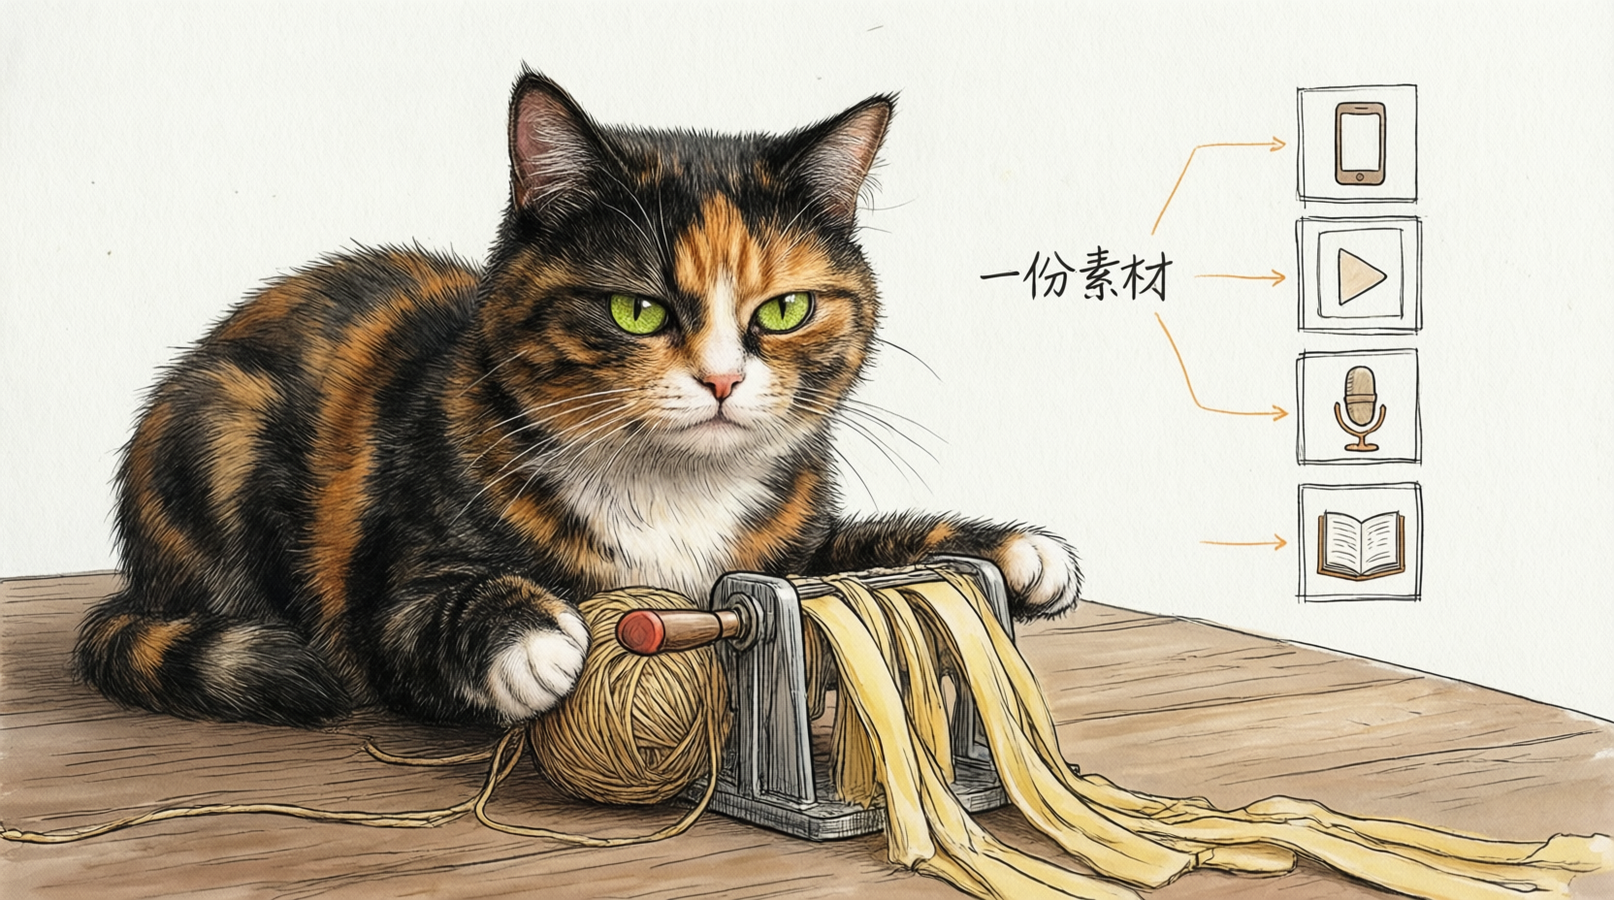
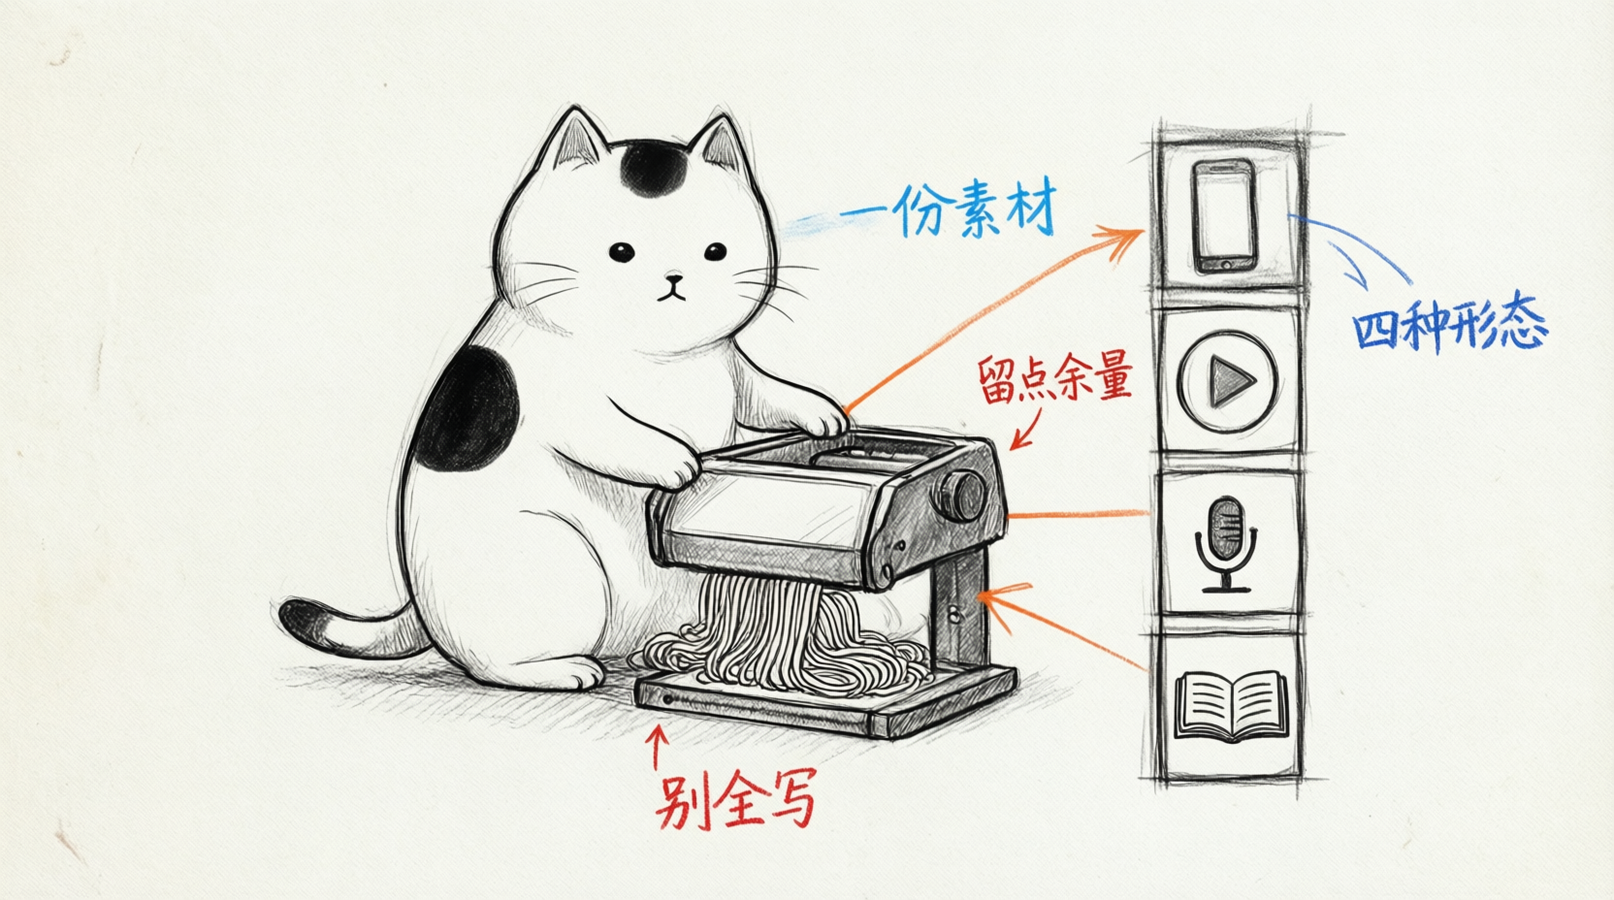
style: 画风收敛为极简黑白线稿+红蓝橙笔标记，猫改为空心简笔画角色，prompt 模板改中文并修复 qwen-image 跑偏问题

diff --git a/article-cat-illustrations/references/prompt-template.md b/article-cat-illustrations/references/prompt-template.md
@@ -1,89 +1,75 @@
 # 生图提示词模板
 
-每张图单独生成，通过 qiyuan-image 技能调用 qwen-image API。根据正文内容替换变量，不要把多张图拼在一起。
+每张图单独生成，通过 qiyuan-image 技能调用 qwen-image API。根据正文内容替换变量。
+
+**重要：qwen-image 对中文提示词还原度远高于英文长提示词。下面的模板以中文为主。**
 
 ## 文生图（默认路径）
 
 ```bash
 node ~/.codex/skills/qiyuan-image/qiyuan-image.mjs generate \
-  --prompt "见下方模板" \
+  --prompt "<下方模板>" \
   --out assets/<article-slug>-illustrations/0N-topic-name.png \
   --size 1664x928
 ```
 
-```text
-Generate one standalone 16:9 horizontal Chinese article illustration.
-
-Visual DNA:
-Pure white background. Minimalist hand-drawn line art. Slightly wobbly pen lines. Lots of empty white space. Sparse red/orange/blue handwritten Chinese annotations. Clean absurd product-sketch feeling. No gradients, no shadows, no paper texture, no complex background, no commercial vector style, no PPT infographic look, no cute mascot poster, no children's illustration, no realistic UI.
-
-Recurring IP character required:
-A tortoiseshell (three-color) cat: black, ginger/tan and white fur patches; a white blaze running down the nose and a white muzzle; lime-green round eyes; pointed dark ears; short white paws. Deadpan, aloof, slightly grumpy expression, like a serious system operator who happens to be a cat. The cat must perform the core conceptual action, not decorate the scene. Keep the cat serious and deadpan, NOT cute, NOT chibi, NOT sparkly.
-
-Theme:
-{正文配图主题}
-
-Structure type:
-{结构类型：Workflow / 系统局部 / 前后对比 / 角色状态 / 概念隐喻 / 方法分层 / 地图路线 / 小漫画分镜}
-
-Core idea:
-{这张图要表达的核心意思}
-
-Composition:
-{具体画面：猫在哪里、正在做什么、主要物件是什么、信息如何流动}
-
-Suggested elements:
-{元素1} / {元素2} / {元素3} / {元素4}
-
-Chinese handwritten labels:
-{标注词1} / {标注词2} / {标注词3} / {标注词4} / {可选标注词5}
-
-Color use:
-Black, ginger and white for the cat. Black for main line art and structure. Orange for main flow/path/arrows. Red only for key warnings/problems/results. Blue only for secondary notes or feedback/system state.
-
-Constraints:
-One image explains only one core structure. Keep the main subject around 40%-60% of the canvas. Preserve at least 35% blank white space. Use at most 5-8 short handwritten Chinese labels. Do not write a title in the top-left corner. Do not write the structure type on the image. Do not make it a formal diagram, course slide, or dense explainer. Do not copy prior examples or reuse known case compositions unless explicitly requested; invent a fresh visual metaphor for this specific article. It should be clear but not instructional, interesting but not childish, strange but clean.
-```
-
-注意：当前 qiyuan-image CLI 的 generate 子命令传 `--negative` 会报错（form.append bug），请勿在 generate 中传该参数；negative 内容已并入提示词。
+### 提示词模板（整段复制，替换花括号变量）
 
 ```text
-cute, chibi, kawaii, mascot, sparkle eyes, cartoon baby face, bow, collar, ribbon, PPT, infographic, 3D render, photo, gradient, shadow, paper texture
+极简手绘风中文文章配图，16:9 横版。风格要求（严格遵守）：
+
+1. 纯白背景，整张画面全白，无阴影、无渐变、无纸张纹理、无照片感。
+2. 只有黑色细线稿（圆珠笔手绘感，线条轻微抖动，约2px粗细），角色和物体的内部留白不填充，不用任何写实细节。
+3. 除黑色外，只有三种颜色：红色、蓝色、橙色手写笔标记。橙色只画箭头和路径，红色和蓝色只写批注文字。
+4. 中文手写批注最多5处，每处2-6个字，每个词单独写、字与字分开、清晰可读，绝不连笔、绝不重叠、绝不糊在一起。
+5. 画面主体只占一半左右，大量留白。不要标题，不要左上角写结构类型名，不要任何说明性大段文字。
+
+固定角色（每张图必须有，承担核心动作，不是装饰）：
+一只简笔画猫：黑色细线勾出的椭圆身体，身体内部留白不填色，头顶两个小三角耳朵，两个小黑点眼睛，无嘴，表情冷淡呆滞。背上一小块黑色填充色块表示三花猫。细线火柴棍腿和尾巴。它要像简笔画小人一样认真地干活，绝对不要画成写实猫咪、不要毛发纹理、不要绿色眼睛、不要萌感。
+
+画面内容：
+{具体画面：猫在哪里、正在做什么、主要物件（用简笔画纸箱/抽屉/漏斗/机器/门等低科技物件）、信息如何流动}
+
+文字标注（只写这些，不要多写，每个词位置独立）：
+{标注词1，红色或黑色} / {标注词2，蓝色} / {标注词3，橙色箭头} / {标注词4，红色}
+
+参考构图气质（只参考线条密度和简略度，不要照抄物件）：
+像白纸上用圆珠笔随手画的怪诞产品草图，角色是简笔画小生物，物件是纸箱抽屉漏斗机器，箭头是橙色手绘，批注是红蓝手写小字。
 ```
 
-## 角色一致性 / 局部编辑（edit 命令）
+### 变量填充原则
 
-猫的毛色或表情偏离参考猫，或需要局部修改时，用真实猫照做参考图：
+- `{具体画面}` 一句话说清"谁在哪做什么"，不超过 3 个物件。物件从池子里选：纸箱、抽屉、漏斗、旧机器、门、井、梯子、邮筒、秤、传送带、黑盒、怪工位。
+- 标注词控制在 4-5 个以内；颜色在词后面注明，避免模型全用黑色。
+- 结构类型（Workflow/前后对比等）**不要写进提示词**，只体现在画面里。
+
+## 图像编辑（局部修改 / 角色一致性）
 
 ```bash
 node ~/.codex/skills/qiyuan-image/qiyuan-image.mjs edit \
-  --image <skill-dir>/assets/cat/cat-01.png \
-  --prompt "保持参考图中这只三花猫（黑橘白三色毛、浅绿圆眼、冷淡脸）的外貌特征完全一致，把它放进目标构图：<目标构图描述>。纯白背景，黑色手绘线稿风格，大量留白，少量红橙蓝中文手写批注，16:9 横版。" \
-  --out assets/<article-slug>-illustrations/0N-topic-name.png \
+  --image <图> \
+  --prompt "<编辑指令>" \
+  --out <目标文件>.png \
   --strength 0.6
 ```
 
-去掉左上角标题：
+去掉左上角标题 / 多余文字：
 
 ```text
-Edit the provided image. Remove only the handwritten title "{要删除的文字}" and its underline from the top-left corner. Fill that area with the same clean white background, matching the surrounding blank paper. Preserve everything else exactly: the cat, labels, paths, line style, composition, aspect ratio, and image quality. Do not add any new text or objects.
+编辑这张图：只删除"{要删除的文字}"，用纯白背景填平该区域，与周围白纸一致。其余内容（角色、线条、标注、构图、比例）完全保持不变，不要新增任何文字或物件。
 ```
 
-增强角色参与感：
+风格跑偏成写实时：
 
 ```text
-Regenerate this illustration with the same core meaning and simple layout, but make the tortoiseshell cat more central to the conceptual action. The cat should be doing the strange work that explains the idea, not standing beside the diagram. Keep it clean, sparse, hand-drawn, and not cute.
+把这张图重新画成极简黑白线稿风格：所有物体和角色变成黑色细圆珠笔手绘线，内部留白不填充，去掉所有阴影、渐变、材质纹理和写实细节，背景变纯白，只保留红色、蓝色、橙色手写批注。保持构图和文字位置不变。
 ```
-
-## strength 调参经验
-
-- 0.4-0.5：构图基本跟随提示词，猫只取参考图的部分特征。
-- 0.6：默认起点，猫特征与构图平衡。
-- 0.7-0.85：猫非常接近参考图，但构图会被参考图带偏。
 
 ## 实测调参经验（qwen-image）
 
-- 提示词过长/结构太复杂（Theme/Structure type/Core idea 分节 + 大量英文约束）时，模型容易画成写实素描或照片，且会幻觉出大段中文。**收敛成一段自然语言描述 + 明确 "hand-drawn ink sketch on pure white paper, not a photo, no camera frame, no dark edges"**，扁平手绘感会稳定很多。
-- 中文标注必须写"exactly ONE annotation, do not repeat"，否则模型会把同一句话在每个元素旁重复多遍。
-- 纯白背景要在提示词里强调 "entire canvas edge to edge pure white, no vignette, no room, no photo"，否则画面右侧/边缘常出现暗色"照片边"。
-- 猫的长相（三花毛色、绿眼、冷淡脸）模型还原度很高，文生图即可；edit 参考图主要用来修局部，不必作为默认路径。
+1. **中文提示词 > 英文长提示词**：英文分节模板（Theme/Structure/Composition/Constraints 一大段）会让模型跑向写实素描；中文一段式约束 + 明确的"简笔画/留白不填色"描述，能稳定还原极简风。
+2. **猫的简略度要反复强调**：模型默认把"猫"画成写实猫。必须写"椭圆身体、内部留白、小黑点眼睛、火柴棍腿、不要毛发纹理、不要绿眼睛"。参考原版小黑：它的身体就是一个空心线稿豆子，猫也一样。
+3. **文字糊在一起**：qwen-image 写中文容易连笔糊团。要写"每个词单独写、字与字分开、清晰可读"，且标注词总数 ≤5。错字多就减少标注重生成，或 edit 局部修。
+4. **纯白背景**：强调"整张画面全白，无阴影无渐变无照片感"，否则边缘易出现暗色/纸纹。
+5. **不要用 `--negative`**：当前 qiyuan-image CLI 的 generate 子命令传该参数会报 `form.append is not a function`（源码 bug）。负面约束直接写进提示词。
+6. **edit 修风格比重生成稳**：构图对了但画风写实时，用 edit + "重新画成极简黑白线稿" 比整图重生成保留构图更好。

diff --git a/article-cat-illustrations/references/cat-ip.md b/article-cat-illustrations/references/cat-ip.md
@@ -1,38 +1,47 @@
-# 三花猫 IP
+# 三花猫 IP（极简手绘版）
 
 ## 角色定义
 
-三花猫是这套正文配图的固定视觉 IP。
+三花猫是这套正文配图的固定视觉 IP，画风与原版"小黑"完全一致：极简黑白线稿 + 红蓝橙笔标注。
 
-默认每张图都要出现这只猫。它不是萌宠、不是贴纸、不是可爱装饰，而是一只正在认真参与系统运转的"工牌猫"：严肃、冷静、面无表情，但干的活有点荒诞。
+猫不是萌宠、不是贴纸、不是写实动物，而是一个**简笔画角色**——和原版小黑一样是"正在认真干活的荒诞工作者"，只是外形从黑色豆变成了简笔猫。
 
-## 外形（必须与参考图保持一致）
+## 外形（必须与原版小黑同等简略度）
 
-参考图见 `assets/cat/`（01 红衣蓝羽绒服坐姿、02 正面特写、03 趴在垫子上侧脸）。
+- **身体**：圆润的椭圆/卵形轮廓，细黑线描边，**内部留白不填充**（和原版小黑不同，猫身体是空心的线稿）。
+- **耳朵**：头顶两个小尖三角，细线描边。
+- **眼睛**：两个小黑点（●●），**不要画绿色**——和原版小黑的白点眼一样极简。
+- **嘴鼻**：鼻梁处一小块白色留白（用轮廓线勾出的三角形区域），表示三花猫的白色嘴周。
+- **三花色块**：身体上用 1-2 条简单弧线分出一个黑色填充小块（在头或背上），表示三花猫的色块。其余留白。**不要画写实毛色、不要渐变、不要纹理。**
+- **四肢**：细线火柴棍腿（和原版小黑一样），偶尔有细胳膊。
+- **尾巴**：一条简单弧线，偶尔带一个弯曲。
+- **表情**：空、呆、冷静、认真（无嘴或一条短横线嘴）。
 
-- 三花猫（tortoiseshell）：毛色由黑色、橘棕色、白色三色斑块组成。
-- 脸部：左右脸一半偏黑、一半偏橘棕，鼻梁正下方到嘴部有一条白色，嘴周白毛。
-- 眼睛：浅绿色/青柠色，圆眼，眼神冷淡、审视、略凶。
-- 耳朵：黑色尖耳，内侧深色。
-- 爪子和部分身体：有白色斑块（白手套感）。
-- 手绘时简化为：黑+橘棕+白三色块，浅绿圆眼，尖耳，白色嘴周。
+## 画法约束（最重要）
+
+**猫和原版小黑是同一个视觉层级：简笔画角色，不是动物插画。**
+
+- 线宽：全图统一的细黑线（~2px 视觉感受），轻微抖动，手绘感。
+- 填充：猫身体内部**留白**（不填色），最多一个黑色小色块表示三花。
+- 禁止：写实毛发、阴影、渐变、体积感、绿色眼睛、毛色渐变、写实比例。
+- 比例：猫占画面的比例与原版小黑一致（小角色，不霸屏）。
 
 ## 气质
 
 - 冷淡脸（deadpan），永远一副"别惹我"的表情。
-- 很认真，但做的事有点荒诞，像一个低调的系统管理员恰好是只猫。
-- 冷幽默，不卖萌，不摇尾巴，不喵叫。
-- 有点傲慢，但不蠢；看起来在监督系统，实际是核心劳动力。
+- 很认真，但做的事有点荒诞。
+- 冷幽默，不卖萌，不摇尾巴。
+- 像一个低调的系统管理员恰好画成了只猫。
 
 ## 常见职责
 
-让猫承担核心动作：
+和原版小黑相同——猫承担核心动作：
 
 - 爪子里搬着素材纸箱。
 - 尾巴拉线汇聚信息源。
 - 趴在断点上不肯动，卡住流程。
 - 坐在机器上监督"判断"杆。
-- 变成筛选漏斗的形状（毛色分三层）。
+- 变成筛选漏斗的形状。
 - 咬住"素材鱼"切块。
 - 用爪子盖章承接话术。
 - 尾巴卷着承接路径。
@@ -42,12 +51,17 @@
 
 ## 禁止
 
-- 不要画成萌宠表情包、Q 版大头、闪亮星星眼。
-- 不要改变毛色配比：必须黑+橘棕+白三花，浅绿眼。
-- 不要加可爱配饰（蝴蝶结、项圈铃铛、花环）。
-- 不要让它只是站在角落里看，必须参与核心动作。
-- 不要让猫抢走结构表达，或画得太精致、太商业。
+- **不要把猫画写实。** 不要毛发纹理、不要体积感、不要绿眼睛、不要动物摄影感。
+- 不要 Q 版大头、萌宠表情、闪亮星星眼。
+- 不要加可爱配饰（蝴蝶结、项圈铃铛）。
+- 不要让猫只是站在角落里看，必须参与核心动作。
+- 不要让猫抢走结构表达。
 
 ## 判断标准
 
-如果去掉这只猫，图的核心隐喻还能完全成立，说明猫太装饰了；要重写提示词，让猫成为动作主体。
+1. 把猫和原版小黑放一起，视觉重量应该差不多——都是简笔画角色。如果猫看起来像"真猫照片"而小黑像"简笔画"，就画错了。
+2. 如果去掉猫，图的核心隐喻还能完全成立，说明猫太装饰了；要重写提示词。
+
+## 参考
+
+真实猫照（`assets/cat/`）只用来确认"这是哪只猫"（三花、白嘴周、尖耳），**不参考其真实质感和比例**。

diff --git a/article-cat-illustrations/references/style-dna.md b/article-cat-illustrations/references/style-dna.md
@@ -2,47 +2,33 @@
 
 ## 一句话
 
-纯白、极简、手绘、留白、克制、怪诞、产品草图感、中文手写感、结构清楚但不说明书。
-
-像一个长期做 AI、产品、设计、开发工具的人，在白纸上随手画出来的一张解释草图。
+极简黑白线稿 + 红蓝橙手写笔标记。像在白纸上用黑色圆珠笔随手画的一张草图，再用红笔、蓝笔、橙笔圈画批注。
 
 ## 必须
 
 - 16:9 横版正文配图。
-- 纯白背景：不要米色、暖灰、纸张纹理、渐变、阴影、噪点、复古纸感。
-- 黑色手绘线稿为主：细线、轻微抖动、不机械、不矢量、不厚重描边。
-- 大量留白：主体占画面约 40%-60%，至少 35% 空白，最好有一整块安静区域。
-- 少量中文手写批注：最多 5-8 处，每处尽量 2-8 个字。
-- 一张图只讲一个核心动作、结构、状态或隐喻。
-- 结构要自然表达，不要在图上写结构类型名称。
+- 纯白背景：不要米色、暖灰、纸张纹理、渐变、阴影、噪点。
+- **极简黑白线稿**：细黑线（约 2px）、轻微抖动、不机械、不矢量、不厚重描边、不填充色块（角色身体留白）。
+- **颜色只用 4 种**：黑（线稿）、红（批注）、蓝（批注）、橙（箭头/路径）。没有第五种颜色。
+- 大量留白：主体占画面约 40%-60%，至少 35% 空白。
+- 少量中文手写批注：最多 5-8 处，每处 2-8 个字，**每个词写在一个独立位置、字与字之间清晰分开，不连笔、不糊在一起**。
+- 一张图只讲一个核心结构。
 
-## 颜色
+## 颜色分工
 
-- 黑色：主体线稿、角色、框线、结构、主要文字、主体物件。
-- 红色：重点批注、问题、情绪点、关键提醒、结果。
-- 橙色：主流程、路径、箭头、自动化流向、从 A 到 B 的移动关系。
-- 蓝色：补充说明、脑内状态、系统状态、第二层解释、AI/assistant/自动化提示。
-
-蓝色不是每张都必须用。颜色要克制，宁可少不要多。
+- 黑色：所有线稿、角色、框线、结构、主要文字。
+- 红色：重点批注、问题、情绪点、关键提醒（如"别一次发完"）。
+- 蓝色：补充说明、对比状态（如"写完之后"、"有人愿意试"）。
+- 橙色：箭头、路径、时间轴、从 A 到 B 的移动关系。
 
 ## 绝对不要
 
-- 不要商业插画。
-- 不要 PPT 信息图。
-- 不要正式流程图。
-- 不要课程课件。
-- 不要可爱卡通海报。
-- 不要儿童插画。
-- 不要复杂架构图。
-- 不要精致扁平插画。
-- 不要科技感 UI。
-- 不要真实 App 截图。
-- 不要复杂背景、渐变、阴影、纹理。
-- 不要把每个节点都解释清楚。
-- 不要左上角写“Workflow 流程图 / 系统架构图 / 常见坑 / 路线图”等类型标题。
+- 不要写实、不要体积感、不要阴影、不要渐变、不要材质纹理。
+- 不要把角色画成真实动物/人物摄影感——角色必须是和原版小黑同级的简笔画。
+- 不要商业插画、PPT 信息图、正式流程图、课程课件、可爱卡通海报、儿童插画、复杂架构图、精致扁平插画、科技感 UI、真实 App 截图。
+- 不要左上角写"Workflow 流程图 / 系统架构图 / 常见坑 / 路线图"等类型标题。
+- 不要让中文标注糊在一起、连笔、重叠。
 
 ## 审美方向
 
-要怪诞、创意、有意思、简洁清爽、天马行空。
-
-不要可爱、幼稚、很复杂、死板。
+要极简、怪诞、有意思、干净、天马行空。线越少越好，一个圆圈、一条线、一个纸箱就能表达结构。

diff --git a/README.md b/README.md
@@ -10,7 +10,9 @@
 
 Article Cat Illustrations 是一个 Codex Skill，用来指导 AI Agent 为中文文章、帖子、博客、Notion 文档和方法论内容生成正文配图。
 
-方法论改编自 [ian-xiaohei-illustrations](https://github.com/helloianneo/ian-xiaohei-illustrations)（MIT），视觉 IP 从"小黑"替换为个人三花猫 IP：一只黑+橘棕+白三色毛、浅绿圆眼、永远冷淡脸的猫。猫不是萌宠、不是吉祥物，而是一只正在认真参与系统运转的"工牌猫"——严肃、冷静，但干的活有点荒诞。
+方法论改编自 [ian-xiaohei-illustrations](https://github.com/helloianneo/ian-xiaohei-illustrations)（MIT），视觉 IP 从"小黑"替换为个人三花猫 IP。
+
+**画风与原版小黑完全一致：极简黑白线稿 + 红蓝橙手写笔标记。** 猫不是写实动物，而是和原版小黑同级的**空心简笔画角色**——细黑线勾出的椭圆身体、内部留白、小黑点眼、尖耳、火柴棍腿、冷淡脸，背上用一小块黑色色块表示三花猫。严肃、冷静，但干的活有点荒诞。
 
 与原版的一个重要区别：**生图不再依赖内置 `image_gen`，而是通过 qiyuan-image 技能（qwen-image API，qiyuanapi.cc 中转）完成**（`generate` 文生图 / `edit` 图生图），并且内置了针对 qwen-image 的实测调参经验。
 
@@ -98,8 +100,9 @@ Use $article-cat-illustrations 为"信任不是喊出来的，而是一块证据
 ## 注意事项
 
 - 图片里的中文文字越短越稳定；qwen-image 有重复标注的倾向，模板里已内置防重复约束。
-- 猫必须承担核心动作；如果去掉猫画面仍然完全成立，说明猫太装饰了。
-- 毛色必须黑+橘棕+白三花、眼睛浅绿；跑偏时用 `edit` 命令以 `assets/cat/cat-01.png` 为参考图重做。
+- 猫必须是**空心简笔画**（身体留白、小黑点眼、火柴棍腿）；被画成写实猫时用 `edit` 执行"风格跑偏成写实时"指令拉回黑白线稿。
+- 中文标注要短、要少（≤5 处），qwen-image 有连笔糊字倾向，模板已内置防重复/防连笔约束。
+- 画风只有 4 种颜色：黑（线稿）、红、蓝（批注）、橙（箭头），不要出现第五种。
 - 不要把 `QIYUAN_API_KEY` 写进仓库。
 
 ## License

diff --git a/article-cat-illustrations/references/qa-checklist.md b/article-cat-illustrations/references/qa-checklist.md
@@ -4,6 +4,8 @@
 
 - 是 16:9 横版。
 - 背景是干净白底。
+- 极简黑白线稿：细黑线、角色身体内部留白、无阴影无渐变无材质。
+- 猫是简笔画角色（空心椭圆身体、小黑点眼、火柴棍腿），不是写实猫。
 - 有三花猫。
 - 三花猫承担核心动作，不只是装饰。
 - 没有复刻旧案例构图，而是为当前文章生成了新隐喻。
@@ -35,6 +37,7 @@
 - 太普通：让三花猫成为动作主体，加入一个奇怪但成立的隐喻。
 - 太复杂：删节点，只保留一个动作和 3-5 个短标注。
 - 太可爱：强调 deadpan、blank serious expression、not cute、not mascot。
+- 画风写实（毛发、阴影、体积感、绿眼睛）：用 edit 执行 prompt-template 里的"风格跑偏成写实时"指令，或重生成并在提示词里强调"身体内部留白、小黑点眼睛、火柴棍腿、不要毛发纹理"。
 - 太 PPT：去掉标题、边框、整齐网格和过多箭头，改成手绘场景。
 - 太像旧案例：保留核心意思，换掉主物件和三花猫动作。
 - 文字错：优先局部编辑；错得多就重生成并减少标注数量。
@@ -47,6 +50,6 @@
 
 ## 角色一致性（三花猫）
 
-- 毛色必须是黑+橘棕+白三色斑块，不能变成纯黑猫、纯橘猫或白猫。
-- 眼睛必须是浅绿/青柠色。
+- 必须保留三花特征：身体上一小块黑色填充色块 + 尖耳 + 白嘴周轮廓，让读者认出是这只猫。
+- 眼睛是小黑点（和原版小黑白点眼同级），不是写实绿眼。
 - 冷淡脸、不卖萌；若太可爱，用 edit 命令以 `assets/cat/cat-01.png` 为参考图重做（strength 0.6 起）。
